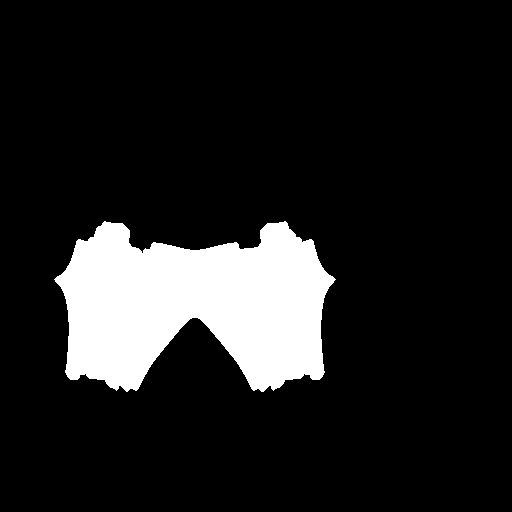
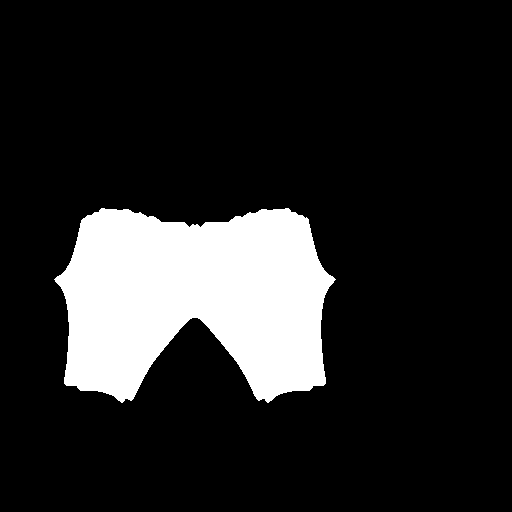
tests: audit the body against six goals instead of looking at it
I judged the candidate body by LOOKING at renders for most of a day. That is not
a question with a wrong answer. A bare figure on a black background hid a uv
error completely; the chest defect could not be told from a mangled belt by eye;
and the one measurement I took by hand scored a KNOWN-GOOD pairing at 57%
broken, because a nearest-surface normal test is not defined for an open garment
like a tunic. Every conclusion drawn that way was worth nothing.

tests/body_audit.tscn runs the SHIPPING body first as a control. A check the
shipping body fails is a check that is wrong, not a body that is -- which is the
property that makes a threshold trustworthy instead of argued about.

  G1 RIG      every bone the pack body has, name for name    75 | 75, 0 missing
  G2 SKIN     no vertex unweighted -- one is a spike, and only in some poses
                                                    0/7,281 | 0/14,517
  G3 STANCE   height and span within 6% of pack     1.820/1.859 | +0.6%/+4.0%
  G4 EYES     eye mesh inside the skull, not floating off it       ok | ok
  G5 MASKS    a mask per worn garment, present AND neither blank nor solid
  G6 CLOTHED  no skin visible through cloth               17 px | 317 px

G6 USES NO COLOUR HEURISTIC. Render the dressed figure twice, once normally and
once with the skin mesh HIDDEN, and count the pixels that change inside the
torso. A hero whose clothes cover them looks identical either way, because
[…]

Changed region(s): [[0.1562, 0.4062, 0.625, 0.5], [0.125, 0.7188, 0.2812, 0.7812], [0.5, 0.7188, 0.6562, 0.7812]]

diff --git a/scripts/bake_body_masks.py b/scripts/bake_body_masks.py
@@ -60,7 +60,15 @@ MAX_DIST = 0.06
 ## cloth. Hiding only the properly-tucked-in skin fixes nothing visible.
 ##
 ## So proximity regardless of side — but CLOSE proximity, not generous.
-NEAR = 0.035
+## Overridable, and only because a SECOND body proved one value does not serve
+## both. The rule below assumes skin sits inside cloth and pokes through where
+## the cloth is tight — true of a garment modelled against the body wearing it,
+## and false of a garment refitted onto a different torso, where the skin can
+## stand clear OUTSIDE the cloth and never come within 3.5 cm of it. The
+## shipping body keeps 0.035; a candidate can be baked and MEASURED at another
+## value (tests/body_audit.tscn, goal G6) instead of the number being argued
+## about.
+NEAR = float(os.environ.get("MASK_NEAR", "0.035"))
 ## Pixels of dilation. The mask is sampled per fragment, so a boundary that is
 ## exactly right in UV space still shows a rim of skin where a texel straddles
 ## the garment's edge. Growing it closes that without eating visible skin.

diff --git a/godot/docs/Testing.md b/godot/docs/Testing.md
@@ -43,6 +43,49 @@ ONLY=mf BARE=1 $GODOT --path godot res://tests/gesture_shot.tscn   # one library
 drops the weapon — an emote judged with a blade in the hand is judged with the
 blade in front of it, and a wave holding a sword is not a wave.
 
+## The one that needs a window AND asserts
+
+```bash
+$GODOT --path godot res://tests/body_audit.tscn    # BODY-AUDIT OK
+```
+
+`body_audit` is the answer to a real failure of method: the MakeHuman candidate
+body was judged by LOOKING at renders for most of a day. That is not a question
+with a wrong answer. A bare figure on a black background hid a uv error
+completely, and the one measurement taken by hand scored a **known-good pairing
+at 57% broken**, because a nearest-surface normal test is not defined for an
+open garment like a tunic.
+
+So it runs the SHIPPING body first as a control. A check the shipping body fails
+is a check that is wrong, not a body that is — which is the property that makes
+the thresholds trustworthy rather than argued about.
+
+| Goal | Asserts | Pack | MakeHuman |
+|---|---|---|---|
+| G1 RIG | every bone the pack body has, name for name | 75 | 75, 0 missing |
+| G2 SKIN | no vertex left unweighted — one is a spike through the figure, and only in some poses | 0/7,281 | 0/14,517 |
+| G3 STANCE | height and span within 6% of the pack body | 1.820 / 1.859 | +0.6% / +4.0% |
+| G4 EYES | the eye mesh sits inside the skull rather than floating off it | ok | ok |
+| G5 MASKS | a mask per worn garment, present **and** neither blank nor solid | 4 sane | 4 sane |
+| G6 CLOTHED | **no skin visible through cloth** | **17 px** | **317 px** |
+
+**G6 is the one that matters, and it uses no colour heuristic at all.** Render
+the dressed figure twice — once normally, once with the skin mesh HIDDEN — and
+count the pixels that change inside the torso window. A hero whose clothes cover
+them looks identical either way, because nothing of them was showing. Every
+changed pixel is skin that was visible through cloth, by construction.
+
+It earned its place immediately: it caught the candidate at **5,722 px** against
+the control's 17, proving the defect was skin rather than the mangled belt it
+equally looked like, and then proved the fix at **317**. The lever was
+`MASK_NEAR` — see [CharacterRender.md](CharacterRender.md).
+
+**What it does NOT cover, and should.** G6 only catches skin that shows when it
+should not. Nothing yet catches the opposite — skin DELETED where no cloth
+covers it, which is how a mask that is too greedy reads: a hole at a wrist or a
+throat. Raising `MASK_NEAR` for the candidate makes that the live risk, and it
+is untested.
+
 `gesture_shot` exists because **the clip names lie**. `Idle_Rail_Call` might be
 a wave or a man shouting over a fence; `NinjaJump_Start` might be a skip or it
 might carry the hero out of frame. It renders six frames evenly across every
